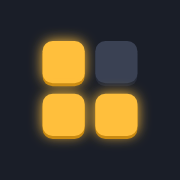
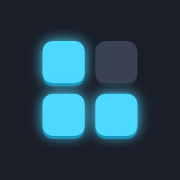
🎨 Try a blue/cyan accent colour instead of amber
Claude-Session: https://claude.ai/code/session_011N4CSmwpj4S7KK9Du8Y2VR

Changed region(s): [[0.1944, 0.1667, 0.8056, 0.8056]]

diff --git a/src/index.css b/src/index.css
@@ -21,11 +21,11 @@
   --ink-soft: #586173;
   --line: #d8dce4;
   --key-edge: #c5cad5;
-  --lamp: #ffb21e;
-  --lamp-ink: #2b1d00;
+  --lamp: #22c3ee;
+  --lamp-ink: #062a36;
   /* lamp hue dark enough for text on the surface */
-  --lamp-text: #9a6200;
-  --lamp-glow: rgb(255 178 30 / 0.5);
+  --lamp-text: #0a6f8f;
+  --lamp-glow: rgb(34 195 238 / 0.5);
   --match: #0b8a68;
   --match-ink: #ffffff;
   --match-glow: rgb(11 138 104 / 0.4);
@@ -40,10 +40,10 @@
   --ink-soft: #9aa3b5;
   --line: #2b3140;
   --key-edge: #0a0c11;
-  --lamp: #ffbf3c;
-  --lamp-ink: #2b1d00;
+  --lamp: #4dd8ff;
+  --lamp-ink: #062a36;
   --lamp-text: var(--lamp);
-  --lamp-glow: rgb(255 191 60 / 0.45);
+  --lamp-glow: rgb(77 216 255 / 0.45);
   --match: #2fd3a2;
   --match-ink: #062a20;
   --match-glow: rgb(47 211 162 / 0.35);
@@ -233,7 +233,7 @@
 }
 
 /*
- * A bit is a little key with a lamp inside. Lit: warm and glowing.
+ * A bit is a little key with a lamp inside. Lit: cool and glowing.
  * Switching off fades slowly (the unlit state owns the long transition).
  */
 @utility bit {
@@ -268,7 +268,7 @@
     background-color: var(--lamp);
     color: var(--lamp-ink);
     box-shadow:
-      0 3px 0 color-mix(in srgb, var(--lamp) 60%, #7a4a00),
+      0 3px 0 color-mix(in srgb, var(--lamp) 60%, #00506a),
       0 0 18px var(--lamp-glow);
     transition-duration: 90ms, 60ms, 60ms, 60ms;
   }
